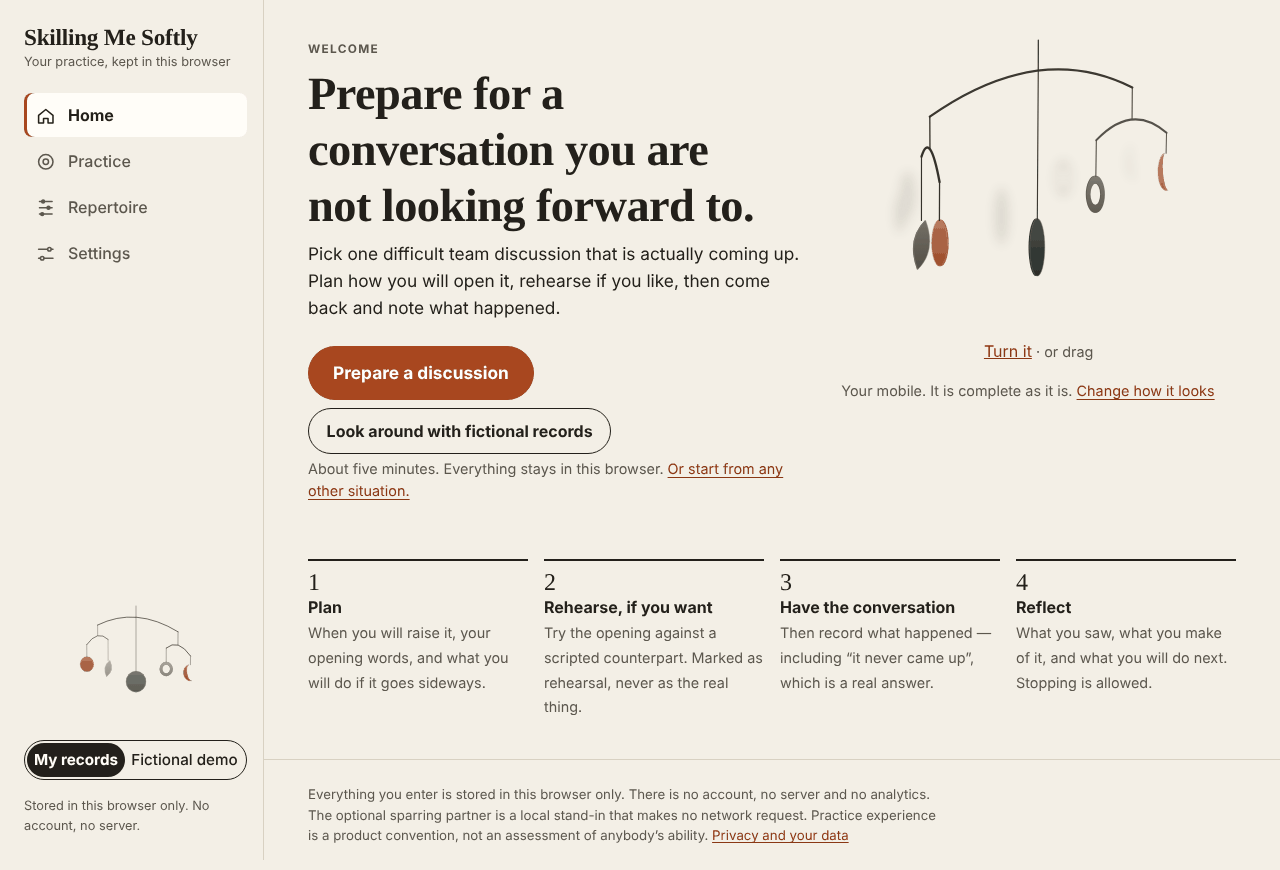
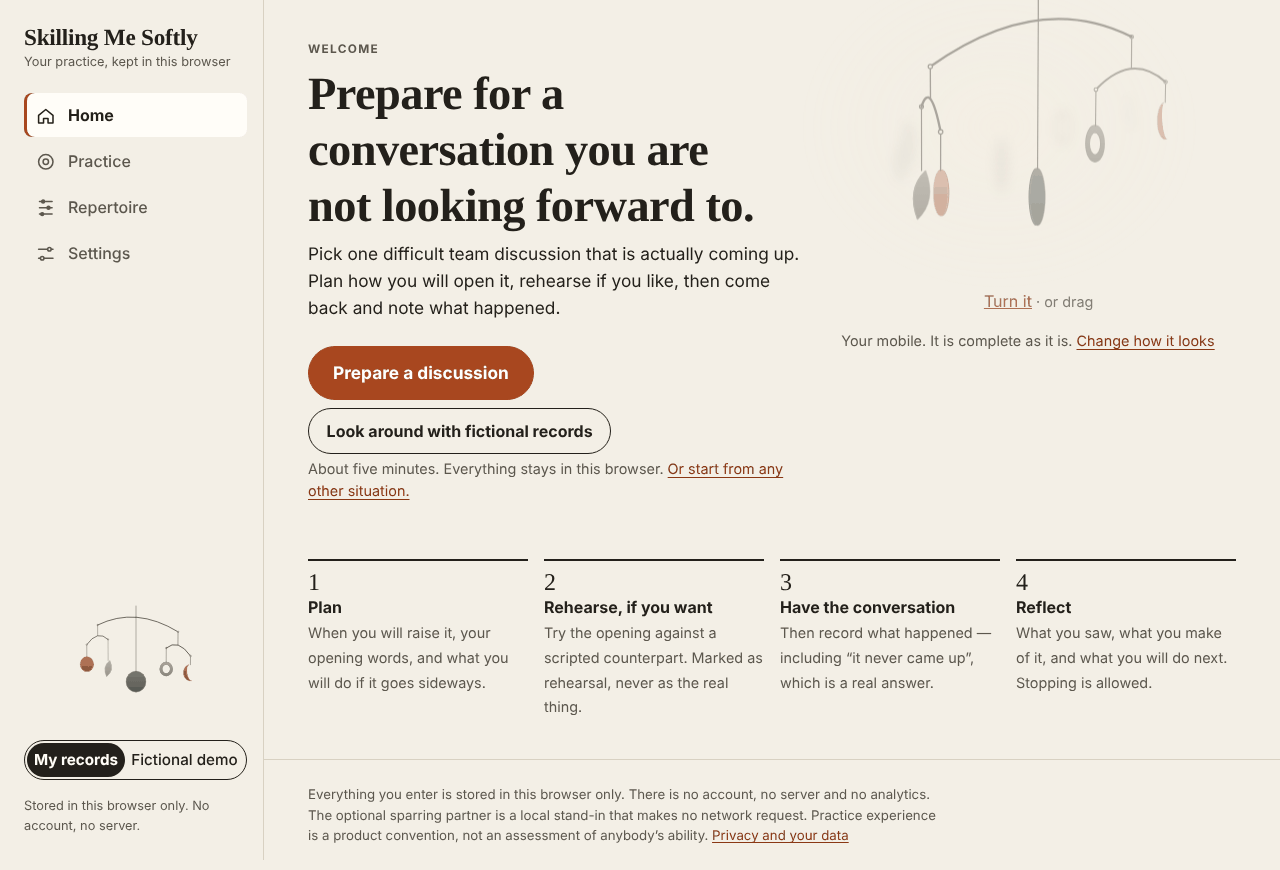
feat(mobile): give it a room — light on the wall, a fixing, loops, a staged arrival
The mobile now hangs from a ceiling fixing in a pool of light whose colour and
strength follow the local hour, with a loop bent into the wire wherever a thread
is tied. On a wide Home it hangs from the top edge of the page and is lowered in
on arrival. Controls stay quiet until reached.

Claude-Session: https://claude.ai/code/session_0117jzdAV41wWToBVkNjZeA7

diff --git a/workbench/apps/capability-development/app/src/ui/mobile/Mobile.tsx b/workbench/apps/capability-development/app/src/ui/mobile/Mobile.tsx
@@ -22,7 +22,7 @@
  */
 import { useEffect, useId, useRef, useState } from 'react'
 import { shapePath, VIEW_BOX } from '~/mobile/catalogue'
-import { drawMobile, lightForHour, sheetColours, wireColour, type ShapeDrawing } from '~/mobile/scene'
+import { drawMobile, lightForHour, roomLight, sheetColours, wireColour, type ShapeDrawing } from '~/mobile/scene'
 import type { MobileDrawing } from '~/mobile/view'
 import { onMobileNudge } from './nudge'
 
@@ -75,7 +75,9 @@ export function Mobile({
   const count = composition.shapes.length
   const targets: number[] = Array.from({ length: count }, (_, slot) => (marked.includes(slot) ? 1 : 0))
   const markKey = targets.join('')
-  const [lightX] = useState(() => lightForHour(new Date().getHours()))
+  const [hour] = useState(() => new Date().getHours())
+  const lightX = lightForHour(hour)
+  const room = roomLight(hour)
   const [pose, setPose] = useState<Pose>(() => ({ time: 0, turned: 0, sway: 0, weights: targets }))
   const motion = useRef({
     turned: 0, velocity: 0, sway: 0, swayVelocity: 0, lean: 0, leanTarget: 0,
@@ -220,10 +222,18 @@ export function Mobile({
     return { def, d, band, transform: `translate(${shape.x} ${shape.y}) scale(${(shape.scale * shape.squeeze).toFixed(3)} ${shape.scale}) rotate(${def.rot})` }
   }
 
+  const [boxX, boxY, boxW, boxH] = (composition.viewBox ?? VIEW_BOX).split(' ').map(Number) as [number, number, number, number]
+  const hookX = composition.hookX
+
   return (
     <figure className={`mobile mobile--${size}${still ? ' mobile--still' : ''}`} ref={figure}>
-      <svg viewBox={composition.viewBox ?? VIEW_BOX} aria-hidden="true" focusable="false" {...pointer}>
+      <svg viewBox={composition.viewBox ?? VIEW_BOX} aria-hidden="true" focusable="false" className={reduced ? undefined : 'mobile__arrive'} {...pointer}>
         <defs>
+          <radialGradient id={`${id}-room`}>
+            <stop offset="0" stopColor={room.colour} stopOpacity={room.strength} />
+            <stop offset="0.55" stopColor={room.colour} stopOpacity={room.strength * 0.35} />
+            <stop offset="1" stopColor={room.colour} stopOpacity="0" />
+          </radialGradient>
           <filter id={`${id}-soft`} x="-30%" y="-30%" width="160%" height="160%">
             <feGaussianBlur stdDeviation="5" />
           </filter>
@@ -241,11 +251,23 @@ export function Mobile({
           })}
         </defs>
 
+        {/* The room: light falling on the wall from the side the light comes from, and the fixing
+            the whole thing hangs from. They are what make the shadow a shadow on something. */}
+        {still ? null : (
+          <>
+            <ellipse cx={boxX + boxW / 2 - lightX * boxW * 0.16} cy={boxY + boxH * 0.46} rx={boxW * 0.52} ry={boxH * 0.56} fill={`url(#${id}-room)`} />
+            <g className="mobile__fixing">
+              <rect x={hookX - 9} y={boxY} width="18" height="3.2" rx="1.6" fill={palette.wire} opacity="0.85" />
+              <circle cx={hookX} cy={boxY + 6.4} r="2.4" fill="none" stroke={palette.wire} strokeWidth="1.2" />
+            </g>
+          </>
+        )}
+
         {/* The shadow on the wall: the same sheets, displaced by the light and blurred. */}
         {still ? null : (
           <g filter={`url(#${id}-soft)`} opacity="0.1" fill="#2a251d" stroke="#2a251d">
             {parts.map((part, i) => {
-              if (part.kind === 'wire') return null
+              if (part.kind !== 'shape') return null
               const s = sheet(part)
               if (!s) return null
               return (
@@ -260,6 +282,9 @@ export function Mobile({
         {parts.map((part, i) => {
           if (part.kind === 'wire') {
             return <path key={i} d={part.d} fill="none" stroke={wireColour(palette.wire, part.haze)} strokeWidth={part.width} strokeLinecap="round" />
+          }
+          if (part.kind === 'joint') {
+            return <circle key={i} cx={part.x} cy={part.y} r={part.r} fill="#f3efe6" stroke={wireColour(palette.wire, part.haze)} strokeWidth={Math.max(0.8, part.r * 0.55)} />
           }
           const s = sheet(part)
           if (!s) return null

diff --git a/workbench/apps/capability-development/app/src/mobile/scene.ts b/workbench/apps/capability-development/app/src/mobile/scene.ts
@@ -86,7 +86,17 @@ export interface ShapeDrawing {
   shadow: [number, number]
 }
 
-export type Drawing = WireDrawing | ShapeDrawing
+/** Where a thread is tied to the end of an arm: a small loop bent into the wire. */
+export interface JointDrawing {
+  kind: 'joint'
+  x: number
+  y: number
+  r: number
+  depth: number
+  haze: number
+}
+
+export type Drawing = WireDrawing | ShapeDrawing | JointDrawing
 
 type Vec = [number, number, number]
 
@@ -209,6 +219,10 @@ export function drawMobile(composition: MobileComposition, time = 0, turned = 0,
       // The control point that makes the bow pass through the point it hangs from.
       const c: Vec = [2 * top[0] - (a[0] + b[0]) / 2, 2 * top[1] - (a[1] + b[1]) / 2, 2 * top[2] - (a[2] + b[2]) / 2]
       wire([a, c, b], true)
+      for (const end of [a, b]) {
+        const q = project(end, cx, focal)
+        out.push({ kind: 'joint', x: n(q.x), y: n(q.y), r: n(1.9 * q.s), depth: q.z + 0.02, haze: haze(q.z) })
+      }
       if (node.ends[0]) place(a, node.ends[0], level + 1)
       if (node.ends[1]) place(b, node.ends[1], level + 1)
       if (node.centre) place(top, node.centre, level + 1)
@@ -235,6 +249,18 @@ export function drawMobile(composition: MobileComposition, time = 0, turned = 0,
   const ceiling: Vec = [cx, -6, 0]
   place(ceiling, composition.root, 0)
   return out.sort((p, q) => p.depth - q.depth)
+}
+
+/**
+ * The room's light for an hour of the local day: its colour on the wall and how strong it is.
+ * Cool and clear in the morning, warm towards evening, low at night. A clock, not a mood.
+ */
+export function roomLight(hour: number): { colour: string; strength: number } {
+  const h = ((hour % 24) + 24) % 24
+  if (h < 6 || h >= 21) return { colour: '#fff3dc', strength: 0.3 }
+  if (h < 11) return { colour: '#ffffff', strength: 0.75 }
+  if (h < 16) return { colour: '#fffdf4', strength: 0.7 }
+  return { colour: '#ffeccb', strength: 0.62 }
 }
 
 /** Linear mix of two #rrggbb colours. */

diff --git a/workbench/apps/capability-development/app/src/mobile/mobile.test.ts b/workbench/apps/capability-development/app/src/mobile/mobile.test.ts
@@ -6,7 +6,7 @@ import type { AppearanceMobile, UserData } from '~/domain/types'
 import { NOW, registry, reviewedRealAttempt, testDeps, activity } from '~/test-helpers/fixtures'
 import { COMPOSITIONS, PALETTES, SLOT_COUNT, composition, mobilePalette, shapePath } from './catalogue'
 import { deriveMobileView } from './view'
-import { drawMobile, lightForHour, mix, sheetColours } from './scene'
+import { drawMobile, lightForHour, mix, roomLight, sheetColours } from './scene'
 import { growMobile } from './grow'
 
 const deps = testDeps()
@@ -254,5 +254,19 @@ describe('grown mobiles', () => {
   it('skips an empty branch and survives no branches at all', () => {
     expect(growMobile('t', 'T', branches([0, 3, 0])).shapes).toHaveLength(3)
     expect(drawMobile(growMobile('t', 'T', []))).toBeInstanceOf(Array)
+  })
+})
+
+describe('the room it hangs in', () => {
+  it('has a warmer, lower light towards evening and a dim one at night, from the clock alone', () => {
+    expect(roomLight(9).strength).toBeGreaterThan(roomLight(18).strength)
+    expect(roomLight(18).strength).toBeGreaterThan(roomLight(23).strength)
+    expect(roomLight(2)).toEqual(roomLight(23))
+    expect(roomLight(18).colour).not.toBe(roomLight(9).colour)
+  })
+  it('ties a loop at both ends of every arm', () => {
+    const joints = drawMobile(COMPOSITIONS[0]!).filter((p) => p.kind === 'joint')
+    expect(joints).toHaveLength(6)
+    expect(drawMobile(COMPOSITIONS[2]!).filter((p) => p.kind === 'joint')).toHaveLength(0)
   })
 })

diff --git a/workbench/apps/capability-development/app/src/ui/styles/app.css b/workbench/apps/capability-development/app/src/ui/styles/app.css
@@ -441,3 +441,16 @@ details.more > .more__body > .panel:first-child { border-top: none; padding-top:
 .record-list details.more > summary { padding: var(--s1) 0; font-size: 0.92rem; }
 details.more + .row, .field + .row { margin-top: var(--s4); }
 .panel--accent .row + .meta, .panel--accent .row + div { margin-top: var(--s3); }
+
+/* ---------- Staging the mobile
+ * It arrives the way something hung arrives: lowered in, then left to settle. On a wide Home it
+ * hangs from the top edge of the page, so its thread reads as coming from the ceiling, not from
+ * a picture frame. */
+@keyframes mobile-arrive { from { opacity: 0; transform: translateY(-14px); } to { opacity: 1; transform: none; } }
+.mobile__arrive { animation: mobile-arrive 900ms cubic-bezier(0.2, 0.7, 0.2, 1) both; }
+.mobile__controls { margin-top: calc(-1 * var(--s2)); opacity: 0.75; transition: opacity 150ms; }
+.mobile:hover .mobile__controls, .mobile__controls:focus-within { opacity: 1; }
+@media (min-width: 60rem) {
+  .home__lead > section .mobile--regular { margin-top: calc(-1 * var(--s5) - 2px); }
+  .home__lead > section .mobile--regular svg { max-width: 30rem; }
+}

diff --git a/workbench/apps/capability-development/app/docs/redesign/MOBILE-CONCEPT.md b/workbench/apps/capability-development/app/docs/redesign/MOBILE-CONCEPT.md
@@ -40,9 +40,22 @@ a shadow on the wall behind — with no WebGL and no added dependency.
 | What you hang on it | The bead slides down the thread, that sheet hangs a little lower, the arms above tip towards it | Your choice, one sheet at a time, reversible |
 | Something being saved nearby | A small stir | It carries no information about what was saved |
 | Arriving on screen | Settles into its pose | |
-| The hour | Light from the left in the morning, from the right by evening; the shadow follows | The local clock, nothing about you |
+| The hour | Light from the left in the morning, from the right by evening; the shadow follows. The light on the wall is clear in the morning, warm towards evening, low at night | The local clock, nothing about you |
 | Where it is shown | Hero on a first visit, companion on Home, a still mark in the side rail, a small witness when a reflection is saved, a wide map on Repertoire | Same object, different distance |
 | Reduced motion | Rests in its authored pose. A drag follows the hand without coasting, the button steps it round, a new memory is simply there | |
+
+## Setting and staging
+
+It hangs somewhere. A fixing at the top, a pool of light on the wall behind it, and its shadow
+falling on that wall are what make it an object in a room and not a picture on a page. Small
+made-object details carry the same weight: a loop bent into the wire wherever a thread is tied,
+a bead where a memory sits.
+
+On a wide Home it hangs from the top edge of the page, so the thread reads as coming from the
+ceiling. It is lowered in when it arrives, then left to settle. Its controls stay quiet until
+the pointer or the keyboard reaches them.
+
+![](mobile-stage.png)
 
 ## What it never answers to
 
